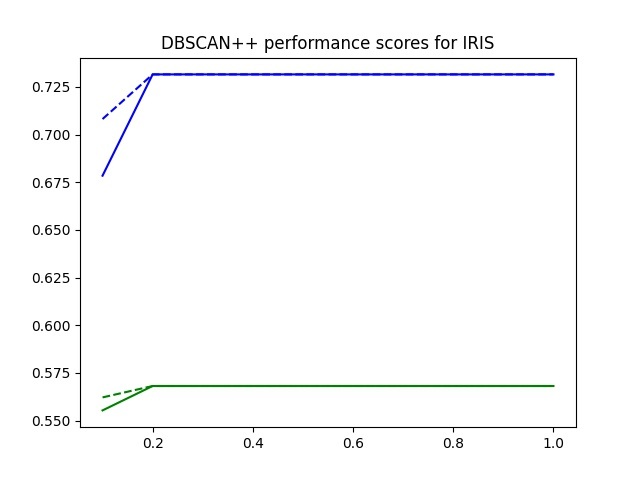
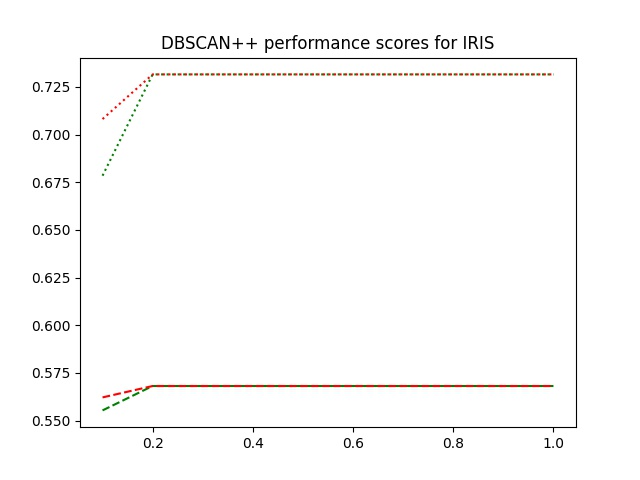
Performance figures

diff --git a/plot_data_factor_variation.py b/plot_data_factor_variation.py
@@ -54,10 +54,10 @@ def main():
         # plt.savefig('Results_small_data_factor/{0}_noise.jpg'.format(name))
 
         plt.figure()
-        plt.plot(factor, amis_dbp_uni, 'b')  # dbscan (blue)
-        plt.plot(factor, arand_dbp_uni, 'g')  # uniform (green)
-        plt.plot(factor, amis_dbp_kg, 'b--')  # dbscan (blue)
-        plt.plot(factor, arand_dbp_kg, 'g--')  # uniform (green)
+        plt.plot(factor, amis_dbp_uni, 'g:')  # dbscan (blue)
+        plt.plot(factor, arand_dbp_uni, 'g--')  # uniform (green)
+        plt.plot(factor, amis_dbp_kg, 'r:')  # dbscan (blue)
+        plt.plot(factor, arand_dbp_kg, 'r--')  # uniform (green)
         # plt.plot(factor, time_dbp_uni, 'r')  # k-center (red)
         plt.title('DBSCAN++ performance scores for ' + str(name.upper()))
         plt.savefig('Results_small_data_factor/{0}_perf_score.jpg'.format(name))
